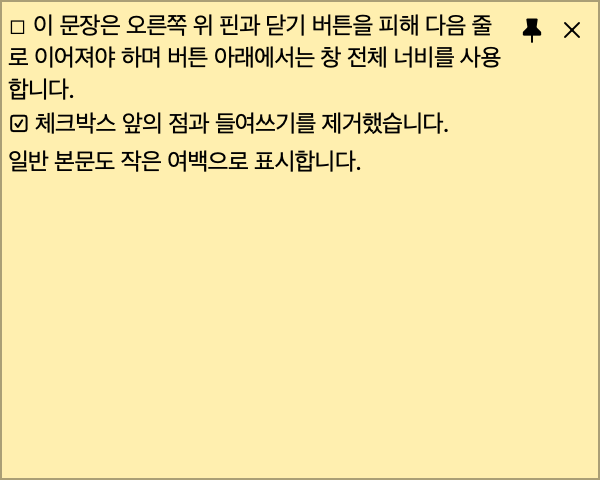
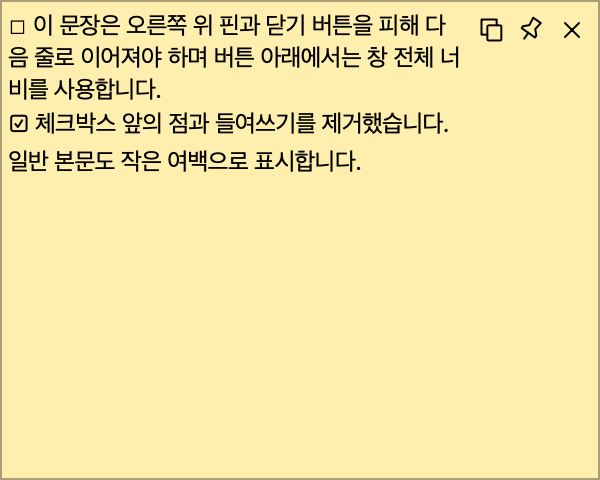
전체 창 드래그와 복사의 실환경 검증 결과 기록

Changed region(s): [[0.0, 0.0312, 0.84, 0.2188], [0.87, 0.0312, 0.9, 0.0938]]

diff --git a/docs/verification.md b/docs/verification.md
@@ -8,9 +8,9 @@
 
 - `npm test`: Rust 16개 + Node 2개 통과. `npm run check`와 release 빌드 통과.
 - 실제 본문/빈 공간 드래그, 버튼 클릭 시 위치 보존, 복사 내용의 창별 격리 검증을 `scripts/multiwindow-ui-smoke.py`에 추가했습니다. 테스트는 클립보드의 모든 표현을 임시 보관하고 사용자가 중간에 다른 내용을 복사하지 않았을 때 복원합니다.
-- 최신 UI 실환경 검증은 보류입니다. 화면 잠금(`CGSSessionScreenIsLocked = 1`) 때문에 접근성 창 조회가 실패했습니다. 실행 중인 이전 빌드와 기존 창 상태를 보존했으며 새 빌드는 아직 실행하지 않았습니다.
-- 잠금 해제 후 기존 창 상태를 보존해 새 빌드를 실행하고 `python3 scripts/multiwindow-ui-smoke.py`로 확인합니다. 아래 화면 캡처 및 실환경 통과 기록은 복사 버튼 추가 전 버전입니다.
-- 최신 변경 Conf 3 / Risk Low. 공식 API: [Clipboard](https://v2.tauri.app/plugin/clipboard/).
+- 화면 잠금 해제 후 최신 release를 적용했습니다. 보이는 기존 창 6개의 위치·크기·고정 상태를 비교해 보존을 확인했습니다. `scripts/multiwindow-ui-smoke.py`에서 실제 본문/빈 공간 드래그, 본문 복사와 클립보드 복원, 버튼 클릭 시 위치 유지, 창별 핀·숨김 격리, 모서리 크기 조절, 배경 포커스 보존을 모두 통과했습니다.
+- `scripts/macos-tray-smoke.py`도 최신 빌드에서 통과했습니다. 아래 화면 캡처를 최신 복사·핀·닫기 아이콘이 있는 실제 창으로 교체했고 본문이 버튼을 피해 줄바꿈되는 것을 확인했습니다.
+- 최신 변경 Conf 5 / Risk Low. 공식 API: [Clipboard](https://v2.tauri.app/plugin/clipboard/).
 
 ## 슬림 UI·신규 창 배치·메뉴 막대 복원 — 이전 빌드 검증
 
